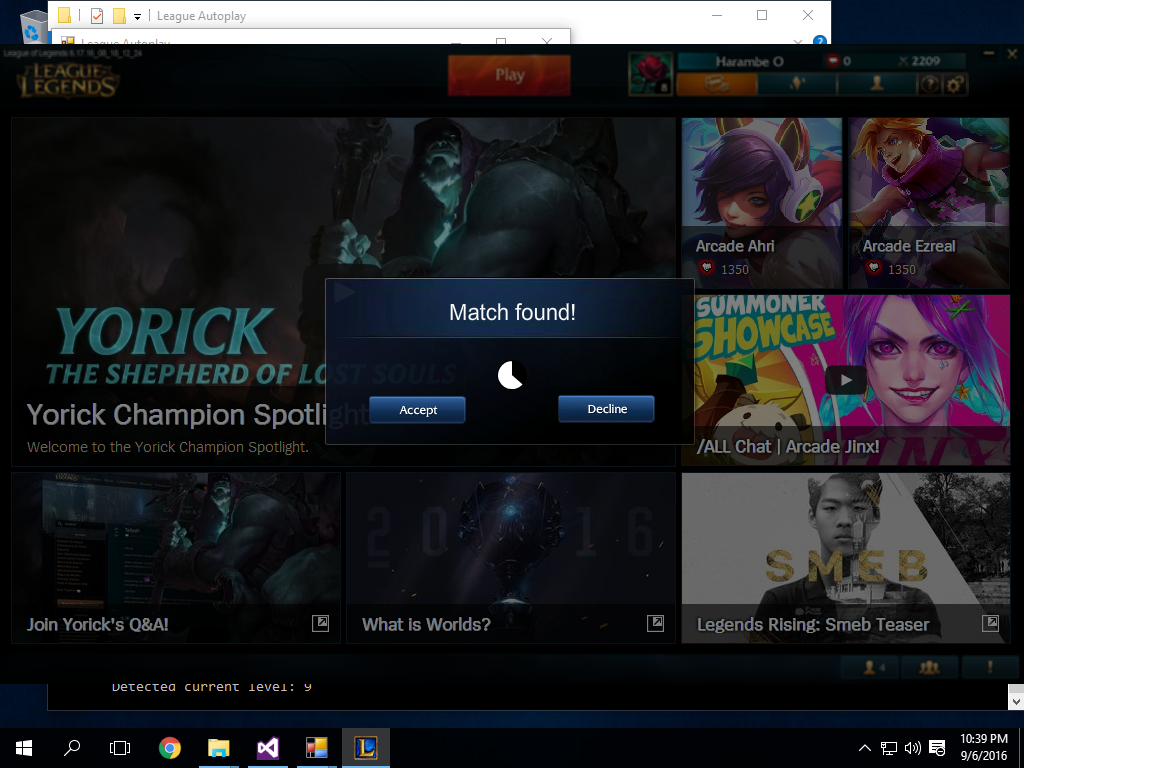
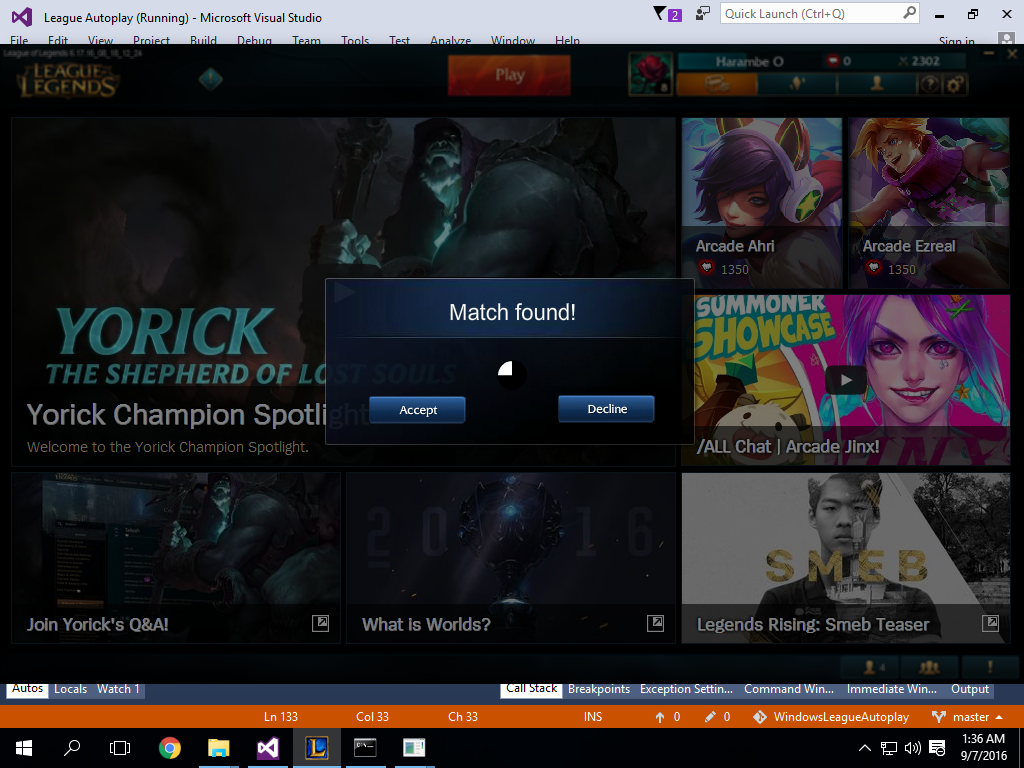
Trying to figure out why it doesn't press accept

diff --git a/League Autoplay/League Autoplay/AutoQueue/AutoQueueManager.cs b/League Autoplay/League Autoplay/AutoQueue/AutoQueueManager.cs
@@ -41,12 +41,14 @@ namespace League_Autoplay.AutoQueue
         {
 
             //Loop through pixels on the screen and look for any of those four buttons.
-            if (acceptMatchClickStopwatch.DurationInMilliseconds() >= 500)
+            if (acceptMatchClickStopwatch.DurationInMilliseconds() >= 0)
             {
+                Console.WriteLine("Scanning for accept match button");
                 acceptMatchButtonPosition = AutoQueueDetection.findImageInScreen(screen, acceptMatchButton, 366, 393, 10, 10, 0.95);
+                //acceptMatchButtonPosition = AutoQueueDetection.findImageInScreen(screen, acceptMatchButton, 0, 0, 1024, 768, 0.5);
                 if (acceptMatchButtonPosition.x != -1)
                 {
-                    Console.WriteLine("\tFound accept match button");
+                    Console.WriteLine("\tFound accept match button at " + acceptMatchButtonPosition.x + ", " + acceptMatchButtonPosition.y);
                     MotorCortex.clickMouseAt(acceptMatchButtonPosition.x + 10, acceptMatchButtonPosition.y = 10);
                     moveMouseDelayed();
                     acceptMatchClickStopwatch.Reset();

diff --git a/League Autoplay/League Autoplay/AutoQueue/AutoQueueDetection.cs b/League Autoplay/League Autoplay/AutoQueue/AutoQueueDetection.cs
@@ -68,8 +68,10 @@ namespace League_Autoplay.AutoQueue
             byte* onScreenPixel = getPixel2(screenData, screenImage.Width, xOnScreen, yOnScreen);
 
             //GenericObject * object = NULL;
-            if (getImageAtPixelPercentageOptimizedExact(onScreenPixel, xOnScreen, yOnScreen, screenImage.Width, screenImage.Height, findImage, findImageData, matchingPercent) >= matchingPercent)
+            double percent;
+            if ((percent = getImageAtPixelPercentageOptimizedExact(onScreenPixel, xOnScreen, yOnScreen, screenImage.Width, screenImage.Height, findImage, findImageData, matchingPercent)) >= matchingPercent)
             {
+                Console.WriteLine("Found image with percent match: " + percent);
                 return true;
             }
 

diff --git a/League Autoplay/League Autoplay/VisualCortex.cs b/League Autoplay/League Autoplay/VisualCortex.cs
@@ -24,7 +24,7 @@ namespace League_Autoplay
         //private DesktopDuplicator desktopDuplicator;
 
         bool test = false;
-        String testImageName = "AnalysisImages\\Resources\\Test Images\\New Victory Screen Test.png";
+        String testImageName = "AnalysisImages\\Resources\\Test Images\\New Match Screen Test.png";
         bool shouldCaptureDisplayImage = false;
         bool recordDisplayImage = false;
         Bitmap displayImage;
